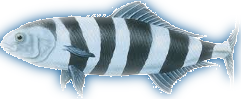
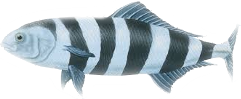
Another try at using Windows support for transparent image backgrounds.

Changed region(s): [[0.0, 0.0, 1.0, 1.0]]

diff --git a/pilotfish.py b/pilotfish.py
@@ -73,6 +73,7 @@ shark_win = sg.Window(
     border_depth=0,
     grab_anywhere=True,
     # no_titlebar=True,
+    transparent_color='white',
     finalize=True,
     )
 
@@ -83,9 +84,10 @@ pilot_win = sg.Window(
     margins=(0,0),
     border_depth=0,
     grab_anywhere=True,
-    no_titlebar=True,
+    # no_titlebar=True,
     keep_on_top=True,
     alpha_channel=0,
+    transparent_color='white',
     finalize=True,
     )
 
